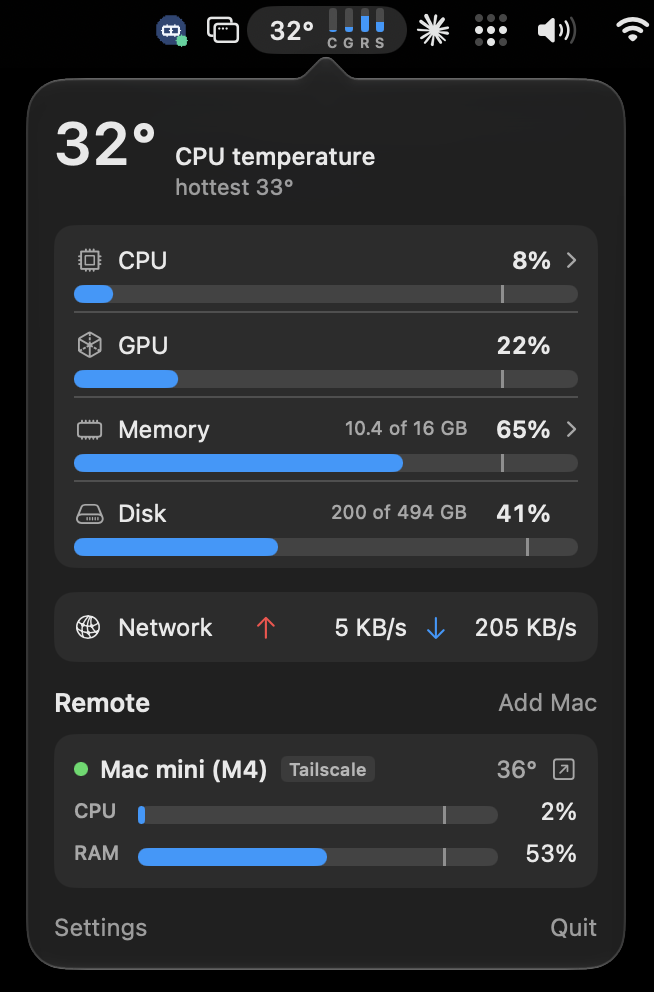
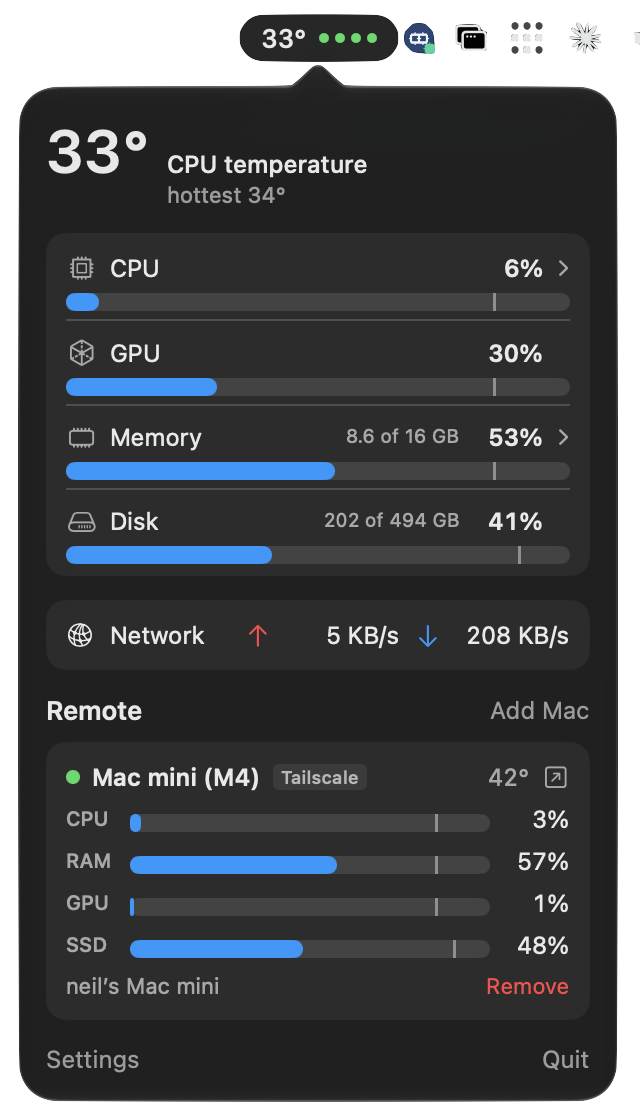
Show calm and alert screenshots side by side in README
Both screenshots are cropped to the same 640x1118 frame with transparent
backgrounds, so they line up at the same scale.

diff --git a/README.md b/README.md
@@ -2,9 +2,16 @@
 
 A compact system stats menu bar app for Apple Silicon Macs, written in SwiftUI.
 
-<p align="center">
-  <img src="docs/screenshot.png" width="320" alt="LogMac's menu bar item and popover, showing CPU temperature, CPU, GPU, memory, disk, and network usage, and a remote Mac mini connected over Tailscale">
-</p>
+<table align="center">
+  <tr>
+    <td align="center"><img src="docs/screenshot.png" width="300" alt="LogMac's menu bar item and popover, showing CPU temperature, CPU, GPU, memory, disk, and network usage, and a remote Mac mini connected over Tailscale"></td>
+    <td align="center"><img src="docs/screenshot2.png" width="300" alt="The same popover while the remote Mac mini's CPU is at 95%: its card shows a red CPU bar, and the menu bar shows MINI · CPU 95%"></td>
+  </tr>
+  <tr>
+    <td align="center">All quiet</td>
+    <td align="center">A remote Mac over its CPU alert level</td>
+  </tr>
+</table>
 
 - **Menu bar:** CPU temperature, always shown, plus four status dots for CPU, GPU, RAM, and SSD. When a metric
   stays over its alert level, the dots expand into mini bars with a label such as `RAM 91%`, then collapse again
